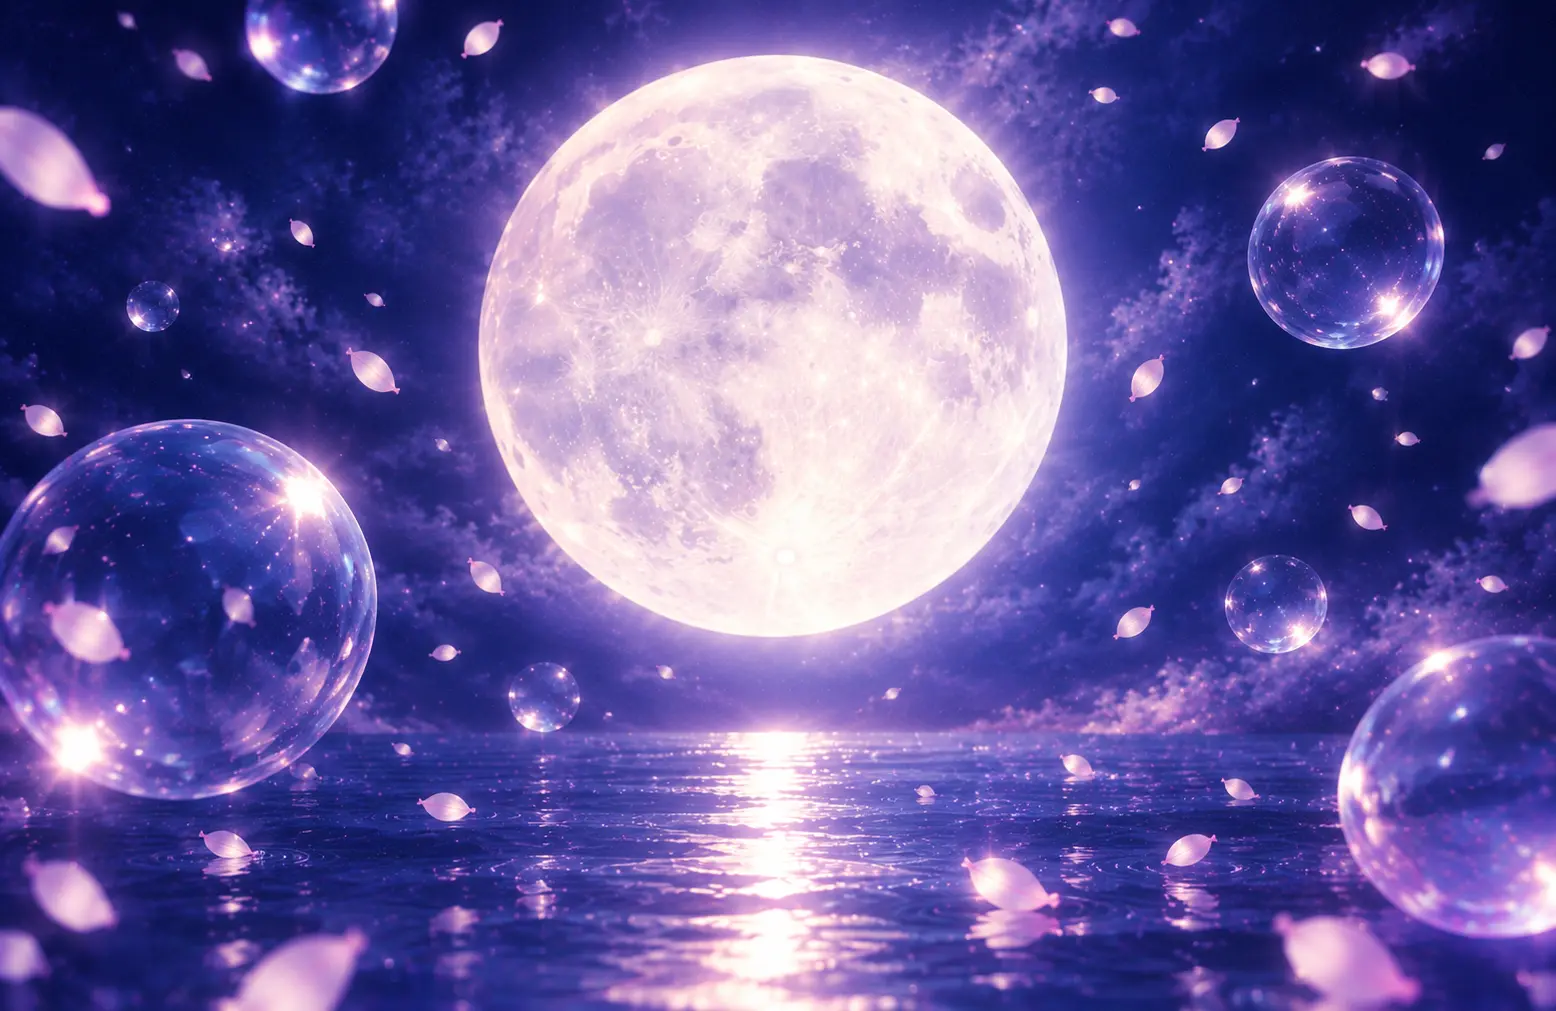
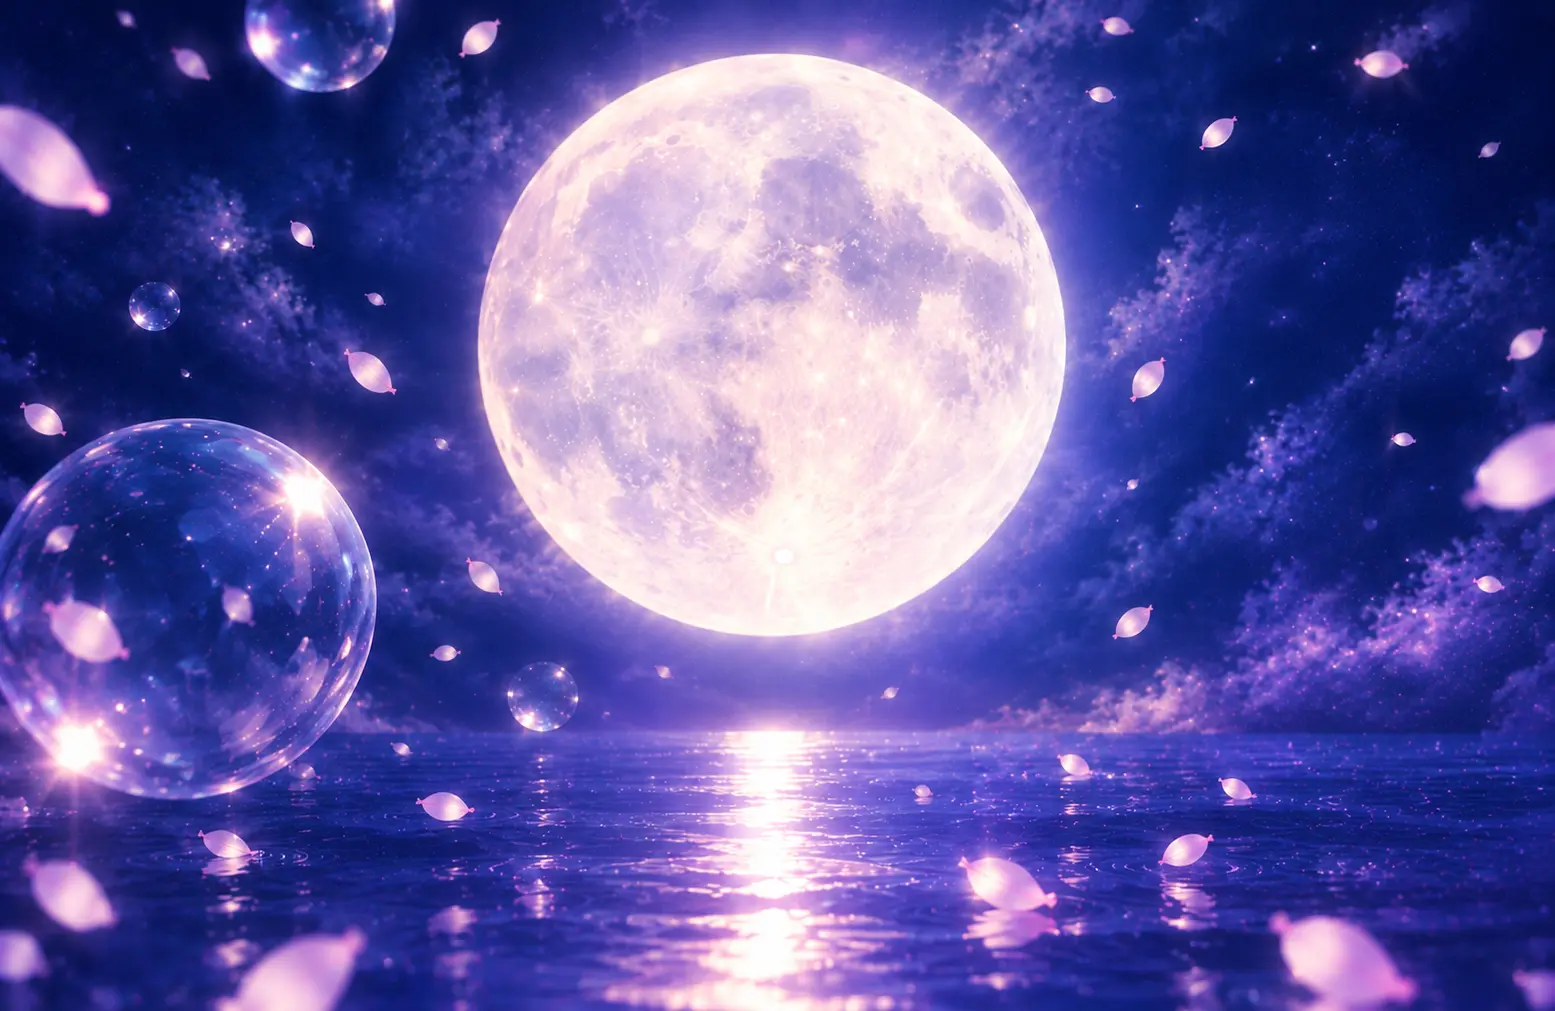
FVに商品画像とボタンを追加、背景のシャボン玉を整理、お試しセットの内容を追加

diff --git a/css/style.css b/css/style.css
@@ -210,6 +210,12 @@ main {
     max-width: var(--content-width);
     margin: 0 auto;
     padding: 0 24px;
+    /* 左（文字）と右（画像）を、横にならべる */
+    display: flex;
+    /* 縦は、真ん中にそろえる */
+    align-items: center;
+    /* 文字と画像の間のすき間 */
+    gap: 24px;
 }
 
 /* ロゴ文字：英語フォントで大きく */
@@ -245,6 +251,55 @@ main {
 /* サブコピー */
 .fv-sub {
     font-size: 18px;
+}
+
+
+/* 左側の文字の箱：残りの幅を、全部使う */
+.fv-text {
+    flex: 1;
+    /* 中身が長くても、箱から、はみ出さないようにする */
+    min-width: 0;
+}
+
+/* 右側の商品画像 */
+.fv-products {
+    width: 460px;
+    /* 画面がせまいときは、画像が、半分より大きくならないようにする */
+    max-width: 50%;
+    /* HTMLに height="667" と書いたので、そのままだと、縦に伸びてしまう。
+       auto にすると、横の幅に合わせて、縦が自動で決まる */
+    height: auto;
+}
+
+/* 「7日間お試しはこちら」ボタン：下のほうのボタンと同じ、紫のカプセル型 */
+.fv-button {
+    /* a は、そのままだと、幅や上の余白が、効かない。inline-block にして効くようにする */
+    display: inline-block;
+    margin-top: 32px;
+    background: var(--gradient-button);
+    color: var(--color-white);
+    border-radius: 999px;
+    padding: 16px 32px;
+    font-size: 18px;
+    transition: opacity 0.2s;
+}
+
+/* マウスを乗せたとき：少し薄くする */
+.fv-button:hover {
+    opacity: 0.85;
+}
+
+/* キーボード（Tabキー）で選んだとき：金色の枠線で、今どこにいるか分かるようにする */
+.fv-button:focus-visible {
+    outline: 3px solid var(--color-gold);
+    outline-offset: 3px;
+}
+
+
+/* スマホ用のボタン：PCでは隠す。
+   上の .fv-button（display: inline-block）より、あとに書くので、この display: none が勝つ */
+.fv-button--sp {
+    display: none;
 }
 
 /* ----------------------------------------------------------
@@ -1173,6 +1228,13 @@ main {
 
     .fv-inner {
         padding: 0 16px;
+        /* 横ならびをやめて、縦にならべる（文字が上、画像が下） */
+        flex-direction: column;
+        /* 縦ならびのときは、横の位置は stretch（いっぱいに広げる）にする。
+           center にすると、文字の箱が中央によってしまい、左ぞろえがくずれる */
+        align-items: stretch;
+        /* 文字と画像の間のすき間 */
+        gap: 32px;
     }
 
     .fv-logo {
@@ -1184,7 +1246,40 @@ main {
     }
 
     .fv-sub {
-        font-size: 10px;
+        font-size: 12px;
+    }
+
+
+    /* 商品画像：スマホでは、横いっぱいに使う。大きくなりすぎないよう、420pxで止める */
+    .fv-products {
+        /* 画像だけ、横の位置を、中央にする（箱の中身は、左ぞろえのまま） */
+        align-self: center;
+        width: 100%;
+        /* PC用の max-width: 50% を、ここで上書きする */
+        max-width: 420px;
+    }
+
+    /* ボタン：スマホでは、少し小さくする */
+    .fv-button {
+        margin-top: 24px;
+        padding: 12px 24px;
+        font-size: 15px;
+    }
+
+
+    /* 左の文字の中のボタンは、隠す（.fv-text の中の .fv-button だけ） */
+    .fv-text .fv-button {
+        display: none;
+    }
+
+    /* 画像の下のボタンを出す。画像と同じ幅にそろえて、中央に置く */
+    .fv-button--sp {
+        display: block;
+        align-self: center;
+        width: 100%;
+        max-width: 420px;
+        text-align: center;
+        margin-top: 0;
     }
 
     /* ロゴとリンクの文字を、折り返さずに1行にする */
@@ -1628,6 +1723,20 @@ main {
     }
 }
 
+
+/* ===== 769px〜960px（せまいPC・タブレット）：FVの文字が、折り返さないように、少し小さくする ===== */
+@media (min-width: 769px) and (max-width: 960px) {
+
+    /* ロゴ：60px → 48px */
+    .fv-logo {
+        font-size: 48px;
+    }
+
+    /* キャッチコピー：40px → 30px */
+    .fv-catch {
+        font-size: 30px;
+    }
+}
 
 /* ===== 480px以下（小さなスマホ）：お試しセットの説明を、2行にする ===== */
 @media (max-width: 480px) {

diff --git a/index.html b/index.html
@@ -36,19 +36,31 @@
         <!-- ==================== FV(ファーストビュー) ==================== -->
         <section class="fv" id="fv">
             <div class="fv-inner">
-                <!-- Moon Bloomのロゴ(大きく表示) -->
-                <p class="fv-logo">Moon Bloom</p>
+                <!-- 左側の文字（ロゴ・キャッチコピー・ボタン）をまとめる箱 -->
+                <div class="fv-text">
+                    <!-- Moon Bloomのロゴ(大きく表示) -->
+                    <p class="fv-logo">Moon Bloom</p>
 
-                <!-- キャッチコピー。h1はページ全体で一番大事な見出しなので、1ページに1つだけ使う -->
-                <h1 class="fv-catch">
-                    夜に咲く<br>
-                    あなたのためのご褒美
-                </h1>
+                    <!-- キャッチコピー。h1はページ全体で一番大事な見出しなので、1ページに1つだけ使う -->
+                    <h1 class="fv-catch">
+                        夜に咲く<br>
+                        あなたのためのご褒美
+                    </h1>
 
-                <!-- <hr>：区切り線。意味的に「ここで話題が変わる」ことを示すタグ -->
-                <hr class="fv-divider">
+                    <!-- <hr>：区切り線。意味的に「ここで話題が変わる」ことを示すタグ -->
+                    <hr class="fv-divider">
 
-                <p class="fv-sub">忙しい毎日でもほっと一息を</p>
+                    <p class="fv-sub">忙しい毎日でもほっと一息を</p>
+                    <!-- 下の「7日間お試し」へ飛ぶボタン。href="#trial" は、同じページの #trial の場所へ移動する、ページ内リンク -->
+                    <a href="#trial" class="fv-button">7日間お試しはこちら</a>
+                </div>
+
+                <!-- FVの商品画像。最初の画面で、すぐ見える画像なので、loading="lazy" は付けない。
+                     width と height を書くと、読み込む前に場所が確保されて、ガタつかない -->
+                <img src="images/fv-products.webp" alt="通常サイズのオールインワンスプレーと導入美容液。それぞれ、シャボン玉の中に入っている" class="fv-products"
+                    width="1000" height="667">
+                <!-- スマホ用のボタン：画像の下に出す。PCでは、CSSで隠す（左の文字の中のボタンを使う） -->
+                <a href="#trial" class="fv-button fv-button--sp">7日間お試しはこちら</a>
             </div>
         </section>
 
